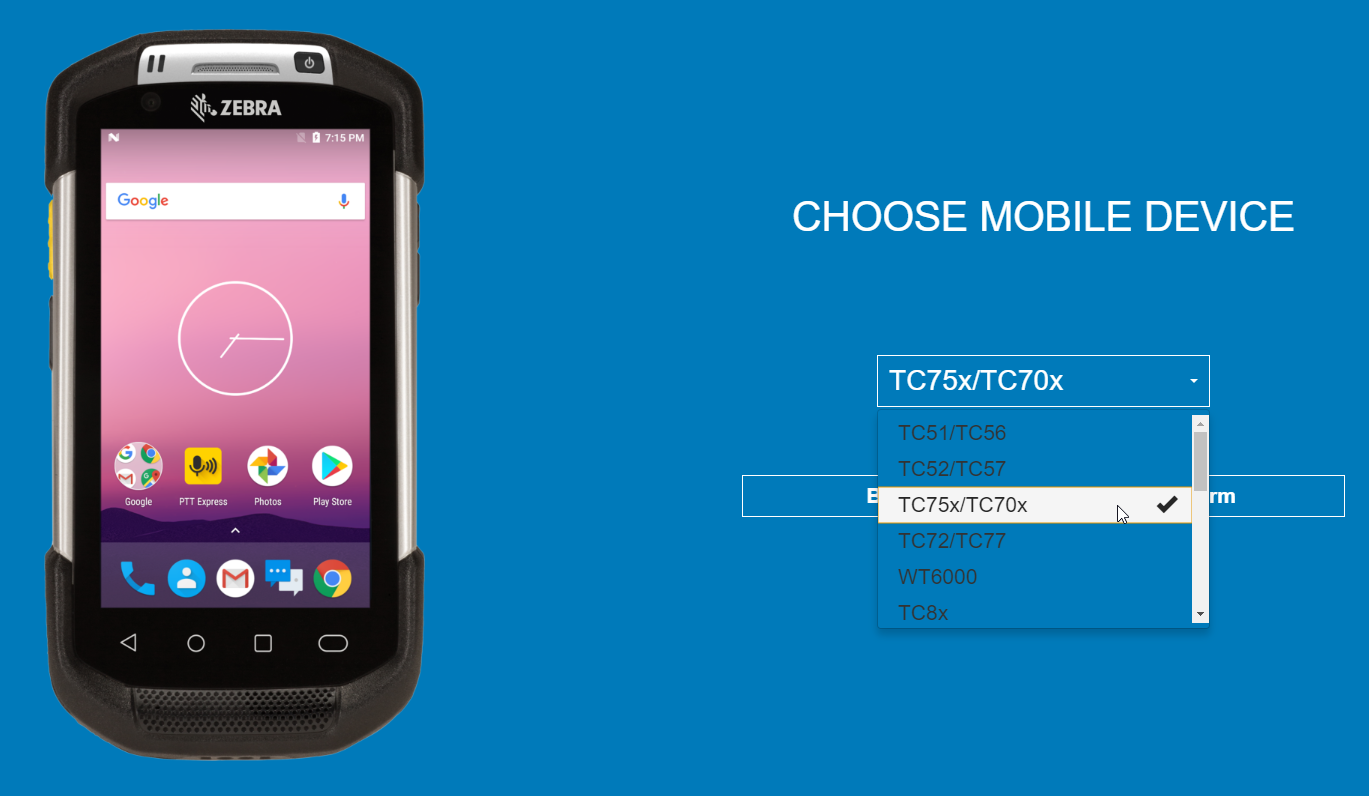
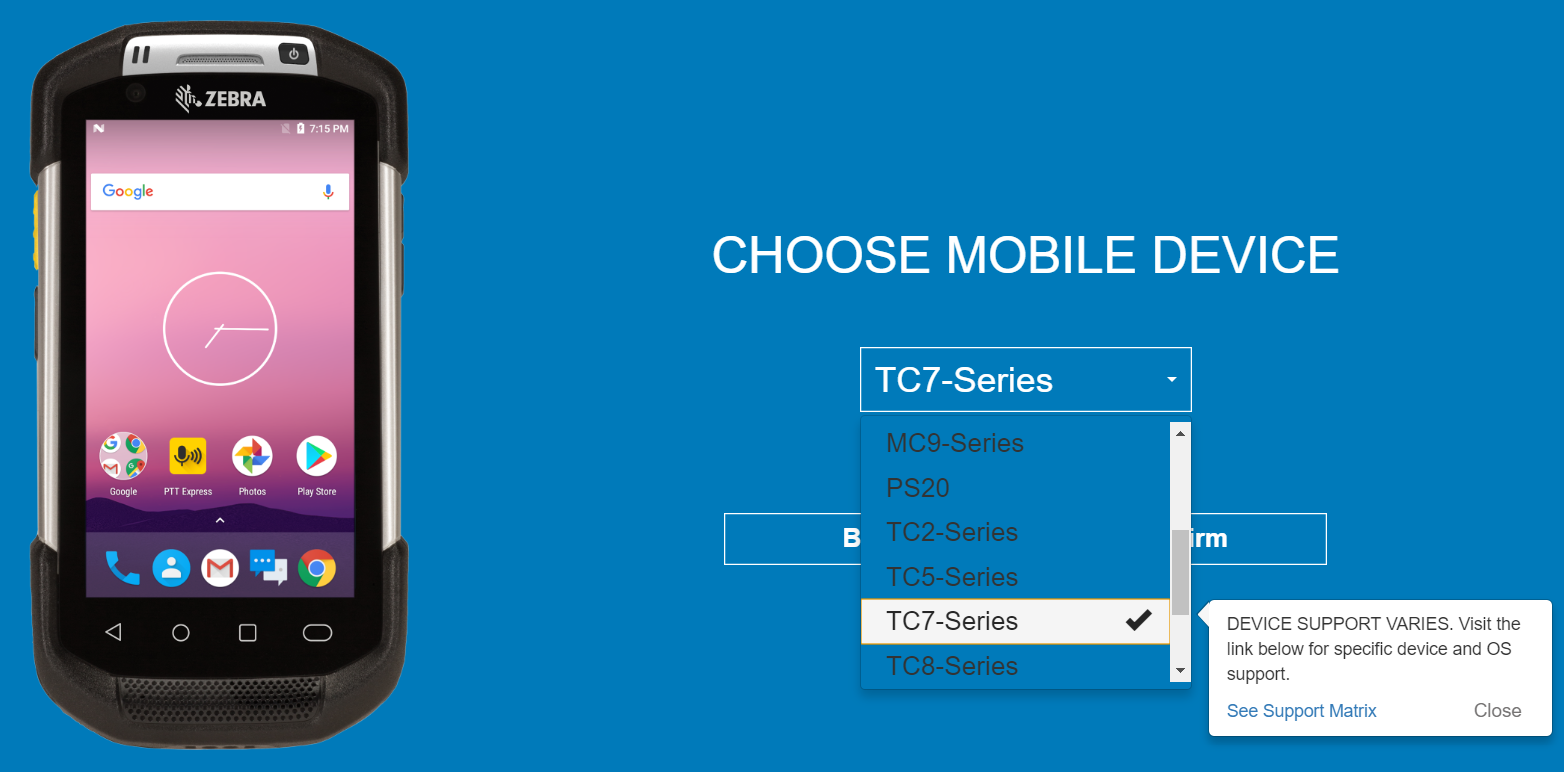
[TUT-42021] EKD 1.9.8 updates, per eng

diff --git a/ekd/1-9/guide/usage/index.html b/ekd/1-9/guide/usage/index.html
@@ -234,11 +234,13 @@
 
 <li><code>ADDED in v1.9:</code> <strong><a href="#repeatkeys">RepeatKeys function</a></strong> causes a specified keyCode to be repeated when long-pressing the key (EKB 3.9+). </li>
 
-<li><code>ADDED in v1.9:</code> <strong><a href="#actionproperties">Macros feature</a></strong> combines multiple keyCodes, presses or Actions into a single key-press (EKB 3.9+).</li>
+<li><code>ADDED in v1.9:</code> <strong><a href="#macros">Macros feature</a></strong> combines multiple keyCodes, presses or Actions into a single key-press (EKB 3.9+).</li>
 
 <li><code>ADDED in v1.9:</code> <strong><a href="#iicreatelayouts">Undo function (CTRL-Z)</a></strong> reverses up to 10 operations.</li>
 
-<li><code>ADDED in v1.9:</code> <strong><a href="#vdeploylayouts">Deploy button</a></strong> exports the current layout file to a USB-connected device.  </li>
+<li><code>ADDED in v1.9:</code> <strong><a href="#vdeploylayouts">Deploy button</a></strong> exports the custom key-layout definition file (an encrypted file) to a USB-connected device.  </li>
+
+<li><code>ADDED in v1.9.8:</code> Consolidates target-selection menu by device skin and screen resolution </li>
 </ul>
 
 <hr>
@@ -316,10 +318,13 @@
 
 <li><strong>Select a target device</strong> from the drop-down and click the “Confirm” button: <br>
 <img alt="" style="height:367px" src="ekd_select_device.png">
+<br>
+<strong>To target EC50/EC55 devices</strong>, Zebra recommends selecting "<strong>TC5-Series</strong>" from the list.<br>
+<strong>To target MC22/MC27 devices</strong>, Zebra recommends selecting "<strong>MC3-Series</strong>" from the list.<br>
 <br></li>
 </ol>
 
-<p><strong>When the project name is displayed in the upper-left corner of the main designer screen (as below), EKD is ready to create custom layouts</strong>.</p>
+<p><strong>When the project name is displayed in the upper-left corner of the main designer screen (as seen in Step 1, below), EKD is ready to create custom layouts</strong>.</p>
 
 <blockquote>
   <p><strong>Note</strong>: Once a project is created, its target device and other project-level settings cannot be changed.</p>
@@ -404,7 +409,7 @@
 <em>Click image to enlarge, ESC to exit</em>.
 <br>
 <br>
-<strong>Note: Buttons shown in the sample images are for illustration purposes. They DO NOT appear in layouts created with EKD</strong>.
+<strong>NOTE: Buttons shown in the sample images are for illustration purposes. They DO NOT appear in layouts created with EKD</strong>.
 <br>
 <br></li>
 
@@ -822,7 +827,7 @@ If deleting the Macro, remove all events. </li>
 </ul>
 
 <blockquote>
-  <p><strong>NOTE: This feature requires Enterprise Keyboard 3.4 or later on the device</strong>. </p>
+  <p><strong>Note: This feature requires Enterprise Keyboard 3.4 or later on the device</strong>. </p>
 </blockquote>
 
 <h4 id="tocreatecannedtextresponses" class="anchor"><a class="heading-anchor" href="#tocreatecannedtextresponses"><span></span></a>To create Canned text response(s):</h4>
@@ -1206,6 +1211,14 @@ A pop-up appears with the list of responses currently stored with that button:
 
 <h3 id="massdeployment" class="anchor"><a class="heading-anchor" href="#massdeployment"><span></span></a>Mass Deployment</h3>
 
+<p>The process below assumes that Enterprise Keyboard is already installed on target device(s). </p>
+
+<blockquote>
+  <p><strong>Note: <u>If EKB is not already installed</u> on the target device(s), add steps for deploying and installing EKB first</strong>, then begin at Step 1, below. </p>
+</blockquote>
+
+<h4 id="tomassdeployalayoutfile" class="anchor"><a class="heading-anchor" href="#tomassdeployalayoutfile"><span></span></a>To mass-deploy a layout file:</h4>
+
 <ol>
 <li><p><strong>Locate the key layout definition file</strong> (i.e. <code>LayoutProjectName.encrypted</code>) on the development host computer. <br>
 By default, the files are saved in the download directory of the current user: <br>
@@ -1222,6 +1235,12 @@ By default, the files are saved in the download directory of the current user: <
 
 <p><strong>Custom key layouts are available on the device immediately upon file deployment</strong>. </p></li>
 </ol>
+
+<blockquote>
+  <p><strong>Note: If custom layouts are to be accessed by Enterprise Browser and/or DataWedge</strong>, layout files copied to <code>/enterprise/device/settings/ekb/config/</code> must grant full ("777") read, write, and execute permissions for all users.</p>
+</blockquote>
+
+<hr>
 
 <h3 id="alsosee-1" class="anchor"><a class="heading-anchor" href="#alsosee-1"><span></span></a>Also See</h3>
 

diff --git a/ekd/1-9/guide/about/index.html b/ekd/1-9/guide/about/index.html
@@ -318,7 +318,19 @@
 
 <h2 id="whatsnewinv19" class="anchor"><a class="heading-anchor" href="#whatsnewinv19"><span></span></a>What's New in v1.9</h2>
 
-<h3 id="newfeatures" class="anchor"><a class="heading-anchor" href="#newfeatures"><span></span></a>New Features</h3>
+<h3 id="july2021update" class="anchor"><a class="heading-anchor" href="#july2021update"><span></span></a><code>JULY, 2021 UPDATE</code></h3>
+
+<h4 id="enterprisekeyboarddesigner198" class="anchor"><a class="heading-anchor" href="#enterprisekeyboarddesigner198"><span></span></a>Enterprise Keyboard Designer 1.9.8</h4>
+
+<ul>
+<li><strong>Consolidates target-selection menu by device skin and screen resolution</strong> </li>
+</ul>
+
+<p><strong>Note</strong>: Layouts created with EKD 1.9.8 can be rendered only on supported devices with EKB 3.9.11 (or later). </p>
+
+<p><strong><a href="https://www.zebra.com/us/en/support-downloads/software/productivity-apps/enterprise-keyboard.html">See all supported devices</a></strong>  <i class="fa fa-external-link" aria-hidden="true"></i></p>
+
+<h3 id="featuresintroducedinekd19" class="anchor"><a class="heading-anchor" href="#featuresintroducedinekd19"><span></span></a>Features Introduced in EKD 1.9</h3>
 
 <ul>
 <li><strong><a href="../usage/#undo">Undo feature</a></strong> reverses each of the last 10 actions  </li>
@@ -334,7 +346,7 @@
 
 <h3 id="mdnaenterpriselicense" class="anchor"><a class="heading-anchor" href="#mdnaenterpriselicense"><span></span></a>MDNA Enterprise License</h3>
 
-<p><strong>Beginning with EKB 3.9, an MDNA Enterprise license is now required</strong> to use Enterprise Keyboard on  Zebra Professional-series devices, including the TC21 and TC26. These devices arrive with a non-functional EKB “dummy” client, which must be replaced with the functional EKB v3.9 (or later) client after <a href="/licensing/process">purchasing a Zebra MDNA Enterprise license</a>. When unlicensed, EKB displays a “license required” prompt (see below) whenever app focus comes to a text input box. <strong>Learn more <a href="/licensing">about MDNA licensing</a></strong>. </p>
+<p><strong>Beginning with EKB 3.9, an MDNA Enterprise license is now required</strong> to use Enterprise Keyboard on Zebra Professional-series devices, including the TC21 and TC26. These devices arrive with a non-functional EKB “dummy” client, which must be replaced with the functional EKB v3.9 (or later) client after <a href="/licensing/process">purchasing a Zebra MDNA Enterprise license</a>. When unlicensed, EKB displays a “license required” prompt (see below) whenever app focus comes to a text input box. <strong>Learn more <a href="/licensing">about MDNA licensing</a></strong>. </p>
 
 <p><img alt="" style="height:450px" src="mdna_license_prompt.png">
 <em>Click image to enlarge, ESC to exit</em>. 
@@ -361,7 +373,7 @@ OLD OLD OLD
 
 <h3 id="addedinv14" class="anchor"><a class="heading-anchor" href="#addedinv14"><span></span></a>Added in v1.4</h3>
 
-<h4 id="newfeatures-1" class="anchor"><a class="heading-anchor" href="#newfeatures-1"><span></span></a>New Features</h4>
+<h4 id="newfeatures" class="anchor"><a class="heading-anchor" href="#newfeatures"><span></span></a>New Features</h4>
 
 <ul>
 <li><p>A new <strong><u><a href="../usage/#cannedtext">Canned text</a></u></strong> feature allows a list of predefined text messages to be assigned to a key in EKD and displayed in a drop-down list on devices running Enterprise Keyboard when the key is pressed. This can help simplify, quicken and standardize responses to common questions or situations. <strong>Requires EKB 3.4 or later</strong>. </p></li>
